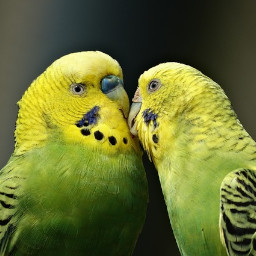
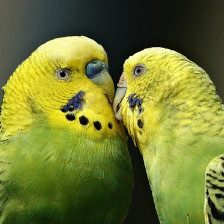
added train function; rescaled images; added gram matrix calculation

diff --git a/main.py b/main.py
@@ -1,6 +1,13 @@
-import torch
-import torchvision.models as models
 from skimage import io
+import matplotlib.pyplot as plt
+from collections import namedtuple
+
+import torch
+import torch.nn as nn
+import torch.optim as optim
+
+from torchvision import transforms
+import torchvision.models as models
 
 class Net(torch.nn.Module):
     def __init__(self):
@@ -22,30 +29,93 @@ class Net(torch.nn.Module):
             self.sl_4.add_module(str(i), vgg_feats[i])
 
     def forward(self, x):
-        h_state_1 = self.sl_1(x)
-        h_state_2 = self.sl_2(h_state_1)
-        h_state_3 = self.sl_3(h_state_2)
-        h_state_4 = self.sl_4(h_state_3)
+        x = self.sl_1(x)
+        h_state_1 = x
+        x = self.sl_2(x)
+        h_state_2 = x
+        x = self.sl_3(x)
+        h_state_3 = x
+        x = self.sl_4(x)
+        h_state_4 = x
 
-        return dict(
-            h_state_1 = h_state_1,
-            h_state_2 = h_state_2,
-            h_state_3 = h_state_3,
-            h_state_4 = h_state_4
+        return [h_state_1, h_state_2, h_state_3, h_state_4]
+
+def show_t_img(t):
+    plt.imshow(t.detach().cpu().view(*t.shape[2:], t.shape[1]))
+    plt.show()
+
+def gram_mat(f):
+    (b, c, h, w) = f.shape
+    f = f.view(b, c, h * w)
+    g = f.bmm(f.transpose(1, 2))
+    return g / (c * h * w)
+
+def train(model, cont_img, style_img, args):
+    img = torch.randn(1, *cont_img.size(), requires_grad=True, device='cuda')
+    # img = torch.ones(1, *cont_img.size(), requires_grad=True, device='cuda')
+
+    optimizer = optim.Adam([img], args.lr)
+    mse_loss = nn.MSELoss()
+
+    model.eval()
+    cont_feat = model(cont_img.view(1, *cont_img.size()))
+    for f in cont_feat:
+        f.detach_()
+        
+    gram_mats = [gram_mat(f) for f in model(style_img.view(1, *style_img.size()))]
+    for f in gram_mats:
+        f.detach_()
+
+    model.train()
+    for i in range(args.iters):
+        optimizer.zero_grad()
+        out = model(img)
+
+        content_loss = args.cont_w * mse_loss(out[1], cont_feat[1])
+
+        style_loss = 0.
+        for f, st_gm in zip(out, gram_mats):
+            g = gram_mat(f)
+            style_loss += mse_loss(g, st_gm)
+        style_loss *= args.style_w
+
+        reg_loss = args.reg_w * (
+            torch.sum(torch.abs(img[:, :, :, 1:] - img[:, :, :, :-1])) +
+            torch.sum(torch.abs(img[:, :, 1:, :] - img[:, :, :-1, :]))
         )
+
+        total_loss = content_loss + style_loss + reg_loss
+        total_loss.backward()
+        optimizer.step()
+
+        print('[epoch#{:04d}]: Content-Loss -> {:} ... '.format(i, content_loss.item()))
+        print('              Style-Loss -> {:} ... '.format(style_loss.item()))
+        print('              Reg-Loss -> {:} ... '.format(reg_loss.item()))
+
+    return img
 
 def main():
     model = Net()
     model.to('cuda')
 
-    style_img = io.imread('media/style/gustav-klimt-kiss-scaled.jpg').reshape(3, 256, 256)
-    cont_img = io.imread('media/content/parrots-kiss-scaled.jpg').reshape(3, 256, 256)
+    style_img = io.imread('media/style/gustav-klimt-kiss.jpg')
+    style_img = style_img.reshape(3, style_img.shape[0], style_img.shape[1])
+    cont_img = io.imread('media/content/parrots-kiss-scaled.jpg').reshape(3, 224, 224)
 
     style_img = torch.from_numpy(style_img).to(device='cuda', dtype=torch.float)
     cont_img = torch.from_numpy(cont_img).to(device='cuda', dtype=torch.float)
 
-    out = model(style_img.reshape(1, 3, 256, 256))
-    print(len(out.items()))
+    transform = transforms.Normalize(mean=[0.485, 0.456, 0.406], 
+                                        std=[0.229, 0.224, 0.225])
+
+    style_img = transform(style_img / 255.0)
+    cont_img = transform(cont_img / 255.0)
+
+    arguments = namedtuple('args', ['lr', 'iters', 'cont_w', 'style_w', 'reg_w'])
+    args = arguments(0.1, 256, 1, 1, 1e-4)
+
+    img = train(model, cont_img, style_img, args)
+    show_t_img(img)
     
 if __name__ == '__main__':
     main()
